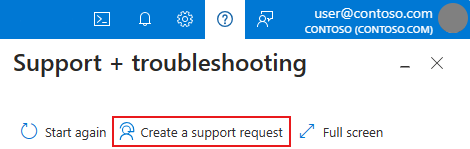
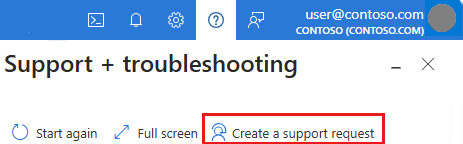
update for current experience

diff --git a/articles/azure-portal/supportability/how-to-create-azure-support-request.md b/articles/azure-portal/supportability/how-to-create-azure-support-request.md
@@ -3,13 +3,13 @@ title: How to create an Azure support request
 description: Customers who need assistance can use the Azure portal to find self-service solutions and to create and manage support requests.
 ms.topic: how-to
 ms.custom: support-help-page
-ms.date: 02/26/2024
+ms.date: 08/14/2025
 # Customer intent: As an Azure user seeking assistance, I want to create and manage support requests through the portal or API, so that I can effectively resolve issues and access technical support for my resources.
 ---
 
 # Create an Azure support request
 
-Azure enables you to create and manage support requests, also known as support tickets. You can create and manage requests in the [Azure portal](https://portal.azure.com), which is covered in this article. You can also create and manage requests programmatically, using the [Azure support ticket REST API](/rest/api/support), or by using [Azure CLI](/cli/azure/azure-cli-support-request).
+Azure enables you to create and manage support requests, also known as support tickets. You can create and manage requests in the Azure portal, as described in this article. You can also create and manage requests programmatically, using the [Azure support ticket REST API](/rest/api/support), or by using [Azure CLI](/cli/azure/support).
 
 > [!NOTE]
 > The Azure portal URL is specific to the Azure cloud where your organization is deployed.
@@ -42,9 +42,9 @@ To start a support request from anywhere in the Azure portal:
 
    :::image type="content" source="media/how-to-create-azure-support-request/support-menu-issue.png" alt-text="Screenshot of the Help menu from the global header in the Azure portal.":::
 
-1. Follow the prompts to share more details about your issue, including the specific resource, if applicable. We'll look for solutions that might help you resolve the issue.
+1. Follow the prompts to share more details about your issue, including the specific resource, if applicable. We'll look for solutions related to your issues. In some cases, we might perform diagnostic checks to further investigate. In many cases, these solutions are able to resolve the problem completely.
 
-   If none of the solutions resolve the problem you're having, select **Create a support request**.
+   If none of the solutions resolve the problem, select **Create a support request**, then follow the steps to complete your request.
 
    :::image type="content" source="media/how-to-create-azure-support-request/header-create-support-request.png" alt-text="Screenshot of the Help menu with Create a support request link.":::
 
@@ -54,24 +54,26 @@ To start a support request in the context of the resource you're currently worki
 
 1. From the resource menu, in the **Help** section, select **Support + Troubleshooting**.
 
-   :::image type="content" source="media/how-to-create-azure-support-request/resource-context-support.png" alt-text="Screenshot of the New Support Request option in the resource pane.":::
+   :::image type="content" source="media/how-to-create-azure-support-request/resource-context-support.png" alt-text="Screenshot of the Create a support request option in the resource pane.":::
 
-1. Follow the prompts  to share more details about your issue. Some options may be preselected for you, based on the resource you were viewing when you selected **Support + Troubleshooting**. We'll look for solutions that might help you resolve the issue.
+1. Follow the prompts  to share more details about your issue. Some options may be preselected for you, based on the resource you were viewing when you selected **Support + Troubleshooting**. We'll look for solutions related to your issues. In some cases, we might perform diagnostic checks to further investigate. In many cases, these solutions are able to resolve the problem completely.
 
-  If none of the solutions resolve the problem you're having, select **Create a support request**.
+  If none of the solutions resolve the problem you're having, select **Create a support request**, then follow the steps to complete your request.
 
 ## Create a support request
 
-When you create a new support request, you'll need to provide some information to help us understand the problem. This information is gathered in a few separate sections.
+When you create a new support request, you'll need to provide some information to help us understand the problem. This information is gathered in a few separate sections. In most cases, information you provided earlier will be prefilled for you. You can make any changes and enter additional details as needed.
 
 ### Problem description
 
-The first step of the support request process is to select an issue type. You'll be prompted for more information, which can vary depending on what type of issue you selected. If you select **Technical**, specify the service that your issue relates to. Depending on the service, you might see options for **Problem type** and **Problem subtype**. Be sure to select the service (and problem type/subtype if applicable) that is most related to your issue. Selecting an unrelated service may result in delays in addressing your support request.
+The **Problem description** section is the first step of the support request process. Details  you provided earlier will be prefilled in this section, but you can make changes if needed. If you change the issue type, the previous information might not be saved.
+
+You may need to provide additional information related to the issue type you select. If you select **Technical**, specify the service that your issue relates to. Depending on the service, you might see options for **Problem type** and **Problem subtype**. Be sure to select the service (and problem type/subtype if applicable) that is most related to your issue. Selecting an unrelated service may result in delays in addressing your support request.
 
 > [!IMPORTANT]
-> In most cases, you'll need to specify a subscription. Be sure to choose the subscription where you are experiencing the problem. The support engineer assigned to your case will only be able to access resources in the subscription you specify. The access requirement serves as a point of confirmation that the support engineer is sharing information to the right audience, which is a key factor for ensuring the security and privacy of customer data. For details on how Azure treats customer data, see [Data Privacy in the Trusted Cloud](https://azure.microsoft.com/overview/trusted-cloud/privacy/).
+> In most cases, you'll need to specify a subscription. Be sure to select the subscription where you are experiencing the problem. The support engineer assigned to your case will only be able to access resources in the subscription you specify. The access requirement serves as a point of confirmation that the support engineer is sharing information to the right audience, which is a key factor for ensuring the security and privacy of customer data. For details on how Azure treats customer data, see [Data Privacy in the Trusted Cloud](https://azure.microsoft.com/overview/trusted-cloud/privacy/).
 >
-> If the issue applies to multiple subscriptions, you can mention additional subscriptions in your description, or by [sending a message](how-to-manage-azure-support-request.md#send-a-message) later. However, the support engineer will only be able to work on [subscriptions to which you have access](#azure-role-based-access-control). If you don't have the required access for a subscription, we won't be able to work on it as part of your request.
+> If the issue applies to multiple subscriptions, you can mention additional subscriptions in your description, or in a [message you send](how-to-manage-azure-support-request.md#send-a-message) later. However, the support engineer will only be able to work on [subscriptions to which you have access](#azure-role-based-access-control). If you don't have the required access for a subscription, we won't be able to work on it as part of your request.
 
 :::image type="content" source="media/how-to-create-azure-support-request/support-request-problem-description.png" alt-text="Screenshot of the Problem description step of the support request process.":::
 
@@ -85,7 +87,7 @@ If you're still unable to resolve the issue, continue creating your support requ
 
 ### Additional details
 
-Next, we collect more details about the problem. Providing thorough and detailed information in this step helps us route your support request to the right engineer.
+Next, we collect more details about the problem. Providing thorough and detailed information in this step helps us route your support request to the right engineer. Be sure not to include any personal or confidential information here.
 
 1. Complete the **Problem details** so that we have more information about your issue. If possible, tell us when the problem started and any steps to reproduce it. You can optionally upload one file (or a compressed file such as .zip that contains multiple files), such as a log file or [browser trace](../capture-browser-trace.md). For more information on file uploads, see [File upload guidelines](how-to-manage-azure-support-request.md#file-upload-guidelines).
 
@@ -93,19 +95,19 @@ Next, we collect more details about the problem. Providing thorough and detailed
 
    In some cases, you may see additional options. For example, for certain types of Virtual Machine problem types, you can choose whether to [allow access to a virtual machine's memory](#memory-dump-collection).
 
-1. In the **Support method** section, select the **Support plan**,  the **Severity** level, depending on the business impact. The [maximum available severity level and time to respond](https://azure.microsoft.com/support/plans/response/) depends on your [support plan](https://azure.microsoft.com/support/plans) and the country/region in which you're located, including the timing of business hours in that country/region.
+1. In the **Support method** section, select the **Support plan** and choose a **Severity** level that reflects the business impact. The [maximum available severity level and time to respond](https://azure.microsoft.com/support/plans/response/) depends on your [support plan](https://azure.microsoft.com/support/plans) and the country/region in which you're located, including the timing of business hours in that country/region.
 
    > [!TIP]
-   > To add a support plan that requires an **Access ID** and **Contract ID**, select **Help + Support** > **Support plans** > **Link support benefits**. When a limited support plan expires or has no support incidents remaining, it won't be available to select.
+   > To add a support plan that requires an **Access ID** and **Contract ID**, go to **Help + Support**. In the service menu, under **Support**, select **Support Plans**. Select **Link support benefits**, then enter your information to see available plans. When a limited support plan expires or has no support incidents remaining, it won't be available to select.
 
-1. Provide your preferred contact method, your availability, and your preferred support language. Confirm that your country/region setting is accurate, as this setting affects the business hours in which a support engineer can work on your request.
+1. Provide your preferred contact method, such as **Email** or **Phone**, then select your preferred **Support language**. You may also see an option to **Connect now** and chat with a support engineer. Chat is only supported in English language.
 
-1. Complete the **Contact info** section so that we know how to reach you.
+1. Complete the **Contact info** section so that we know how to reach you. Confirm that your country/region setting is accurate, as this setting affects the business hours in which a support engineer can work on your request.
 
   > [!TIP]
   > By enabling **Save contact changes for future support requests**, your personal contact info is saved for future use. However, the **Additional email for notification** value is not saved.
 
-Select **Next** after you finish entering this information.
+When you finish entering this information, select **Next**.
 
 ### Review + create
 
@@ -121,12 +123,11 @@ When you allow collection of [advanced diagnostic information](https://azure.mic
 - [Microsoft Azure IaaS VM logs](https://github.com/azure/azure-diskinspect-service/blob/master/docs/manifest_by_file.md)
 - [Microsoft Azure Service Fabric logs](/troubleshoot/azure/general/fabric-logs)
 - [StorSimple support packages and device logs](https://support.microsoft.com/topic/storsimple-support-packages-and-device-logs-cb0a1c7e-6125-a5a7-f212-51439781f646)
-- [SQL Server on Azure Virtual Machines logs](/troubleshoot/azure/general/sql-vm-logs)
 - [Microsoft Entra logs](/troubleshoot/azure/active-directory/support-data-collection-diagnostic-logs)
 - [Azure Stack Edge support package and device logs](/troubleshoot/azure/general/azure-stack-edge-support-package-device-logs)
 - [Azure Synapse Analytics logs](/troubleshoot/azure/general/synapse-analytics-apache-spark-pools-diagnostic-logs)
 
-Depending on your issue or environment type, we may collect other files in addition to the ones listed here. For more information, see [Data we use to deliver Azure support](https://azure.microsoft.com/support/legal/support-diagnostic-information-collection/).
+Depending on your issue or environment type, we might collect other files in addition to the ones listed here. For more information, see [Data we use to deliver Azure support](https://azure.microsoft.com/support/legal/support-diagnostic-information-collection/).
 
 ### Memory dump collection
 
@@ -140,14 +141,8 @@ The dump file is created by generating a Hyper-V save state of the VM. During th
 
 ## Next steps
 
-To learn more about self-help support options in Azure, watch this video:
-
-> [!VIDEO https://www.youtube.com/embed/gNhzR5FE9DY]
-
-Follow these links to learn more:
-
-- [How to manage an Azure support request](how-to-manage-azure-support-request.md)
-- [Azure support ticket REST API](/rest/api/support)
+- Understand how to [manage an Azure support request](how-to-manage-azure-support-request.md)
 - Get help from your peers in [Microsoft Q&A](/answers/products/azure)
-- Learn more in [Azure Support FAQ](https://azure.microsoft.com/support/faq)
-- [Azure Quotas overview](../../quotas/quotas-overview.md)
+- Use the [Azure support ticket REST API](/rest/api/support)
+- Review the [Azure support plans FAQ](https://azure.microsoft.com/support/faq)
+- Learn about [Azure Quotas](../../quotas/quotas-overview.md)
